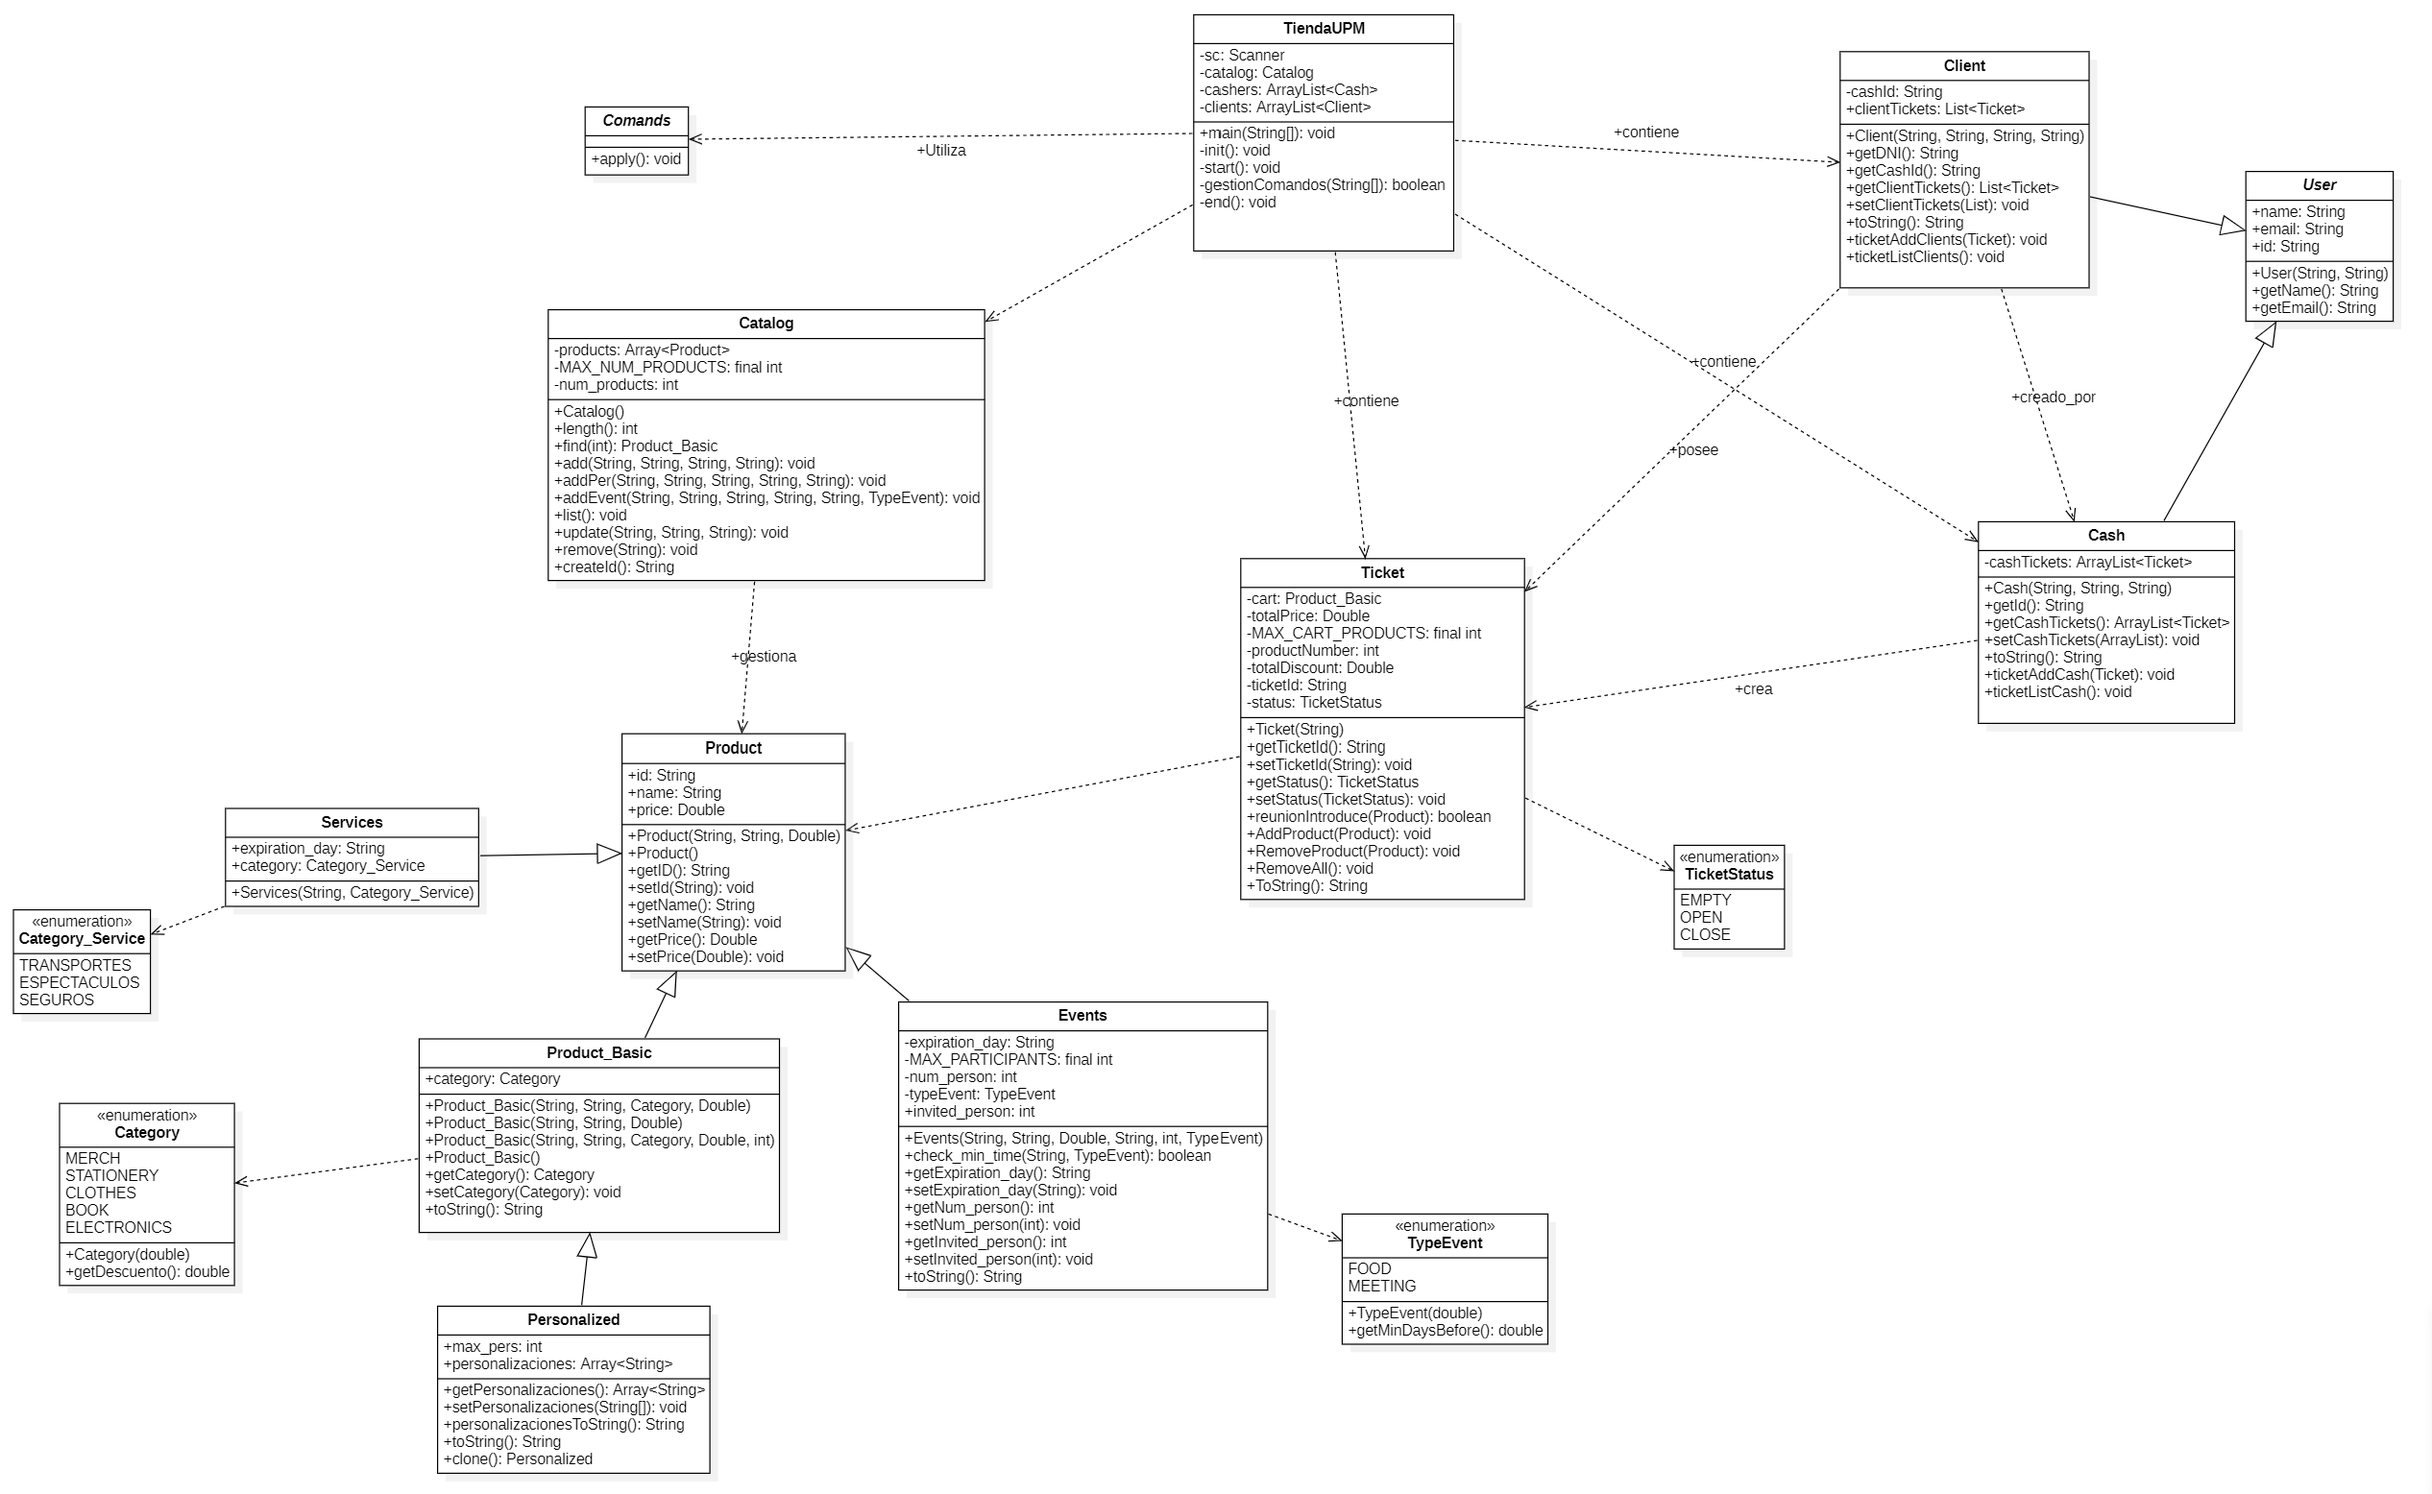
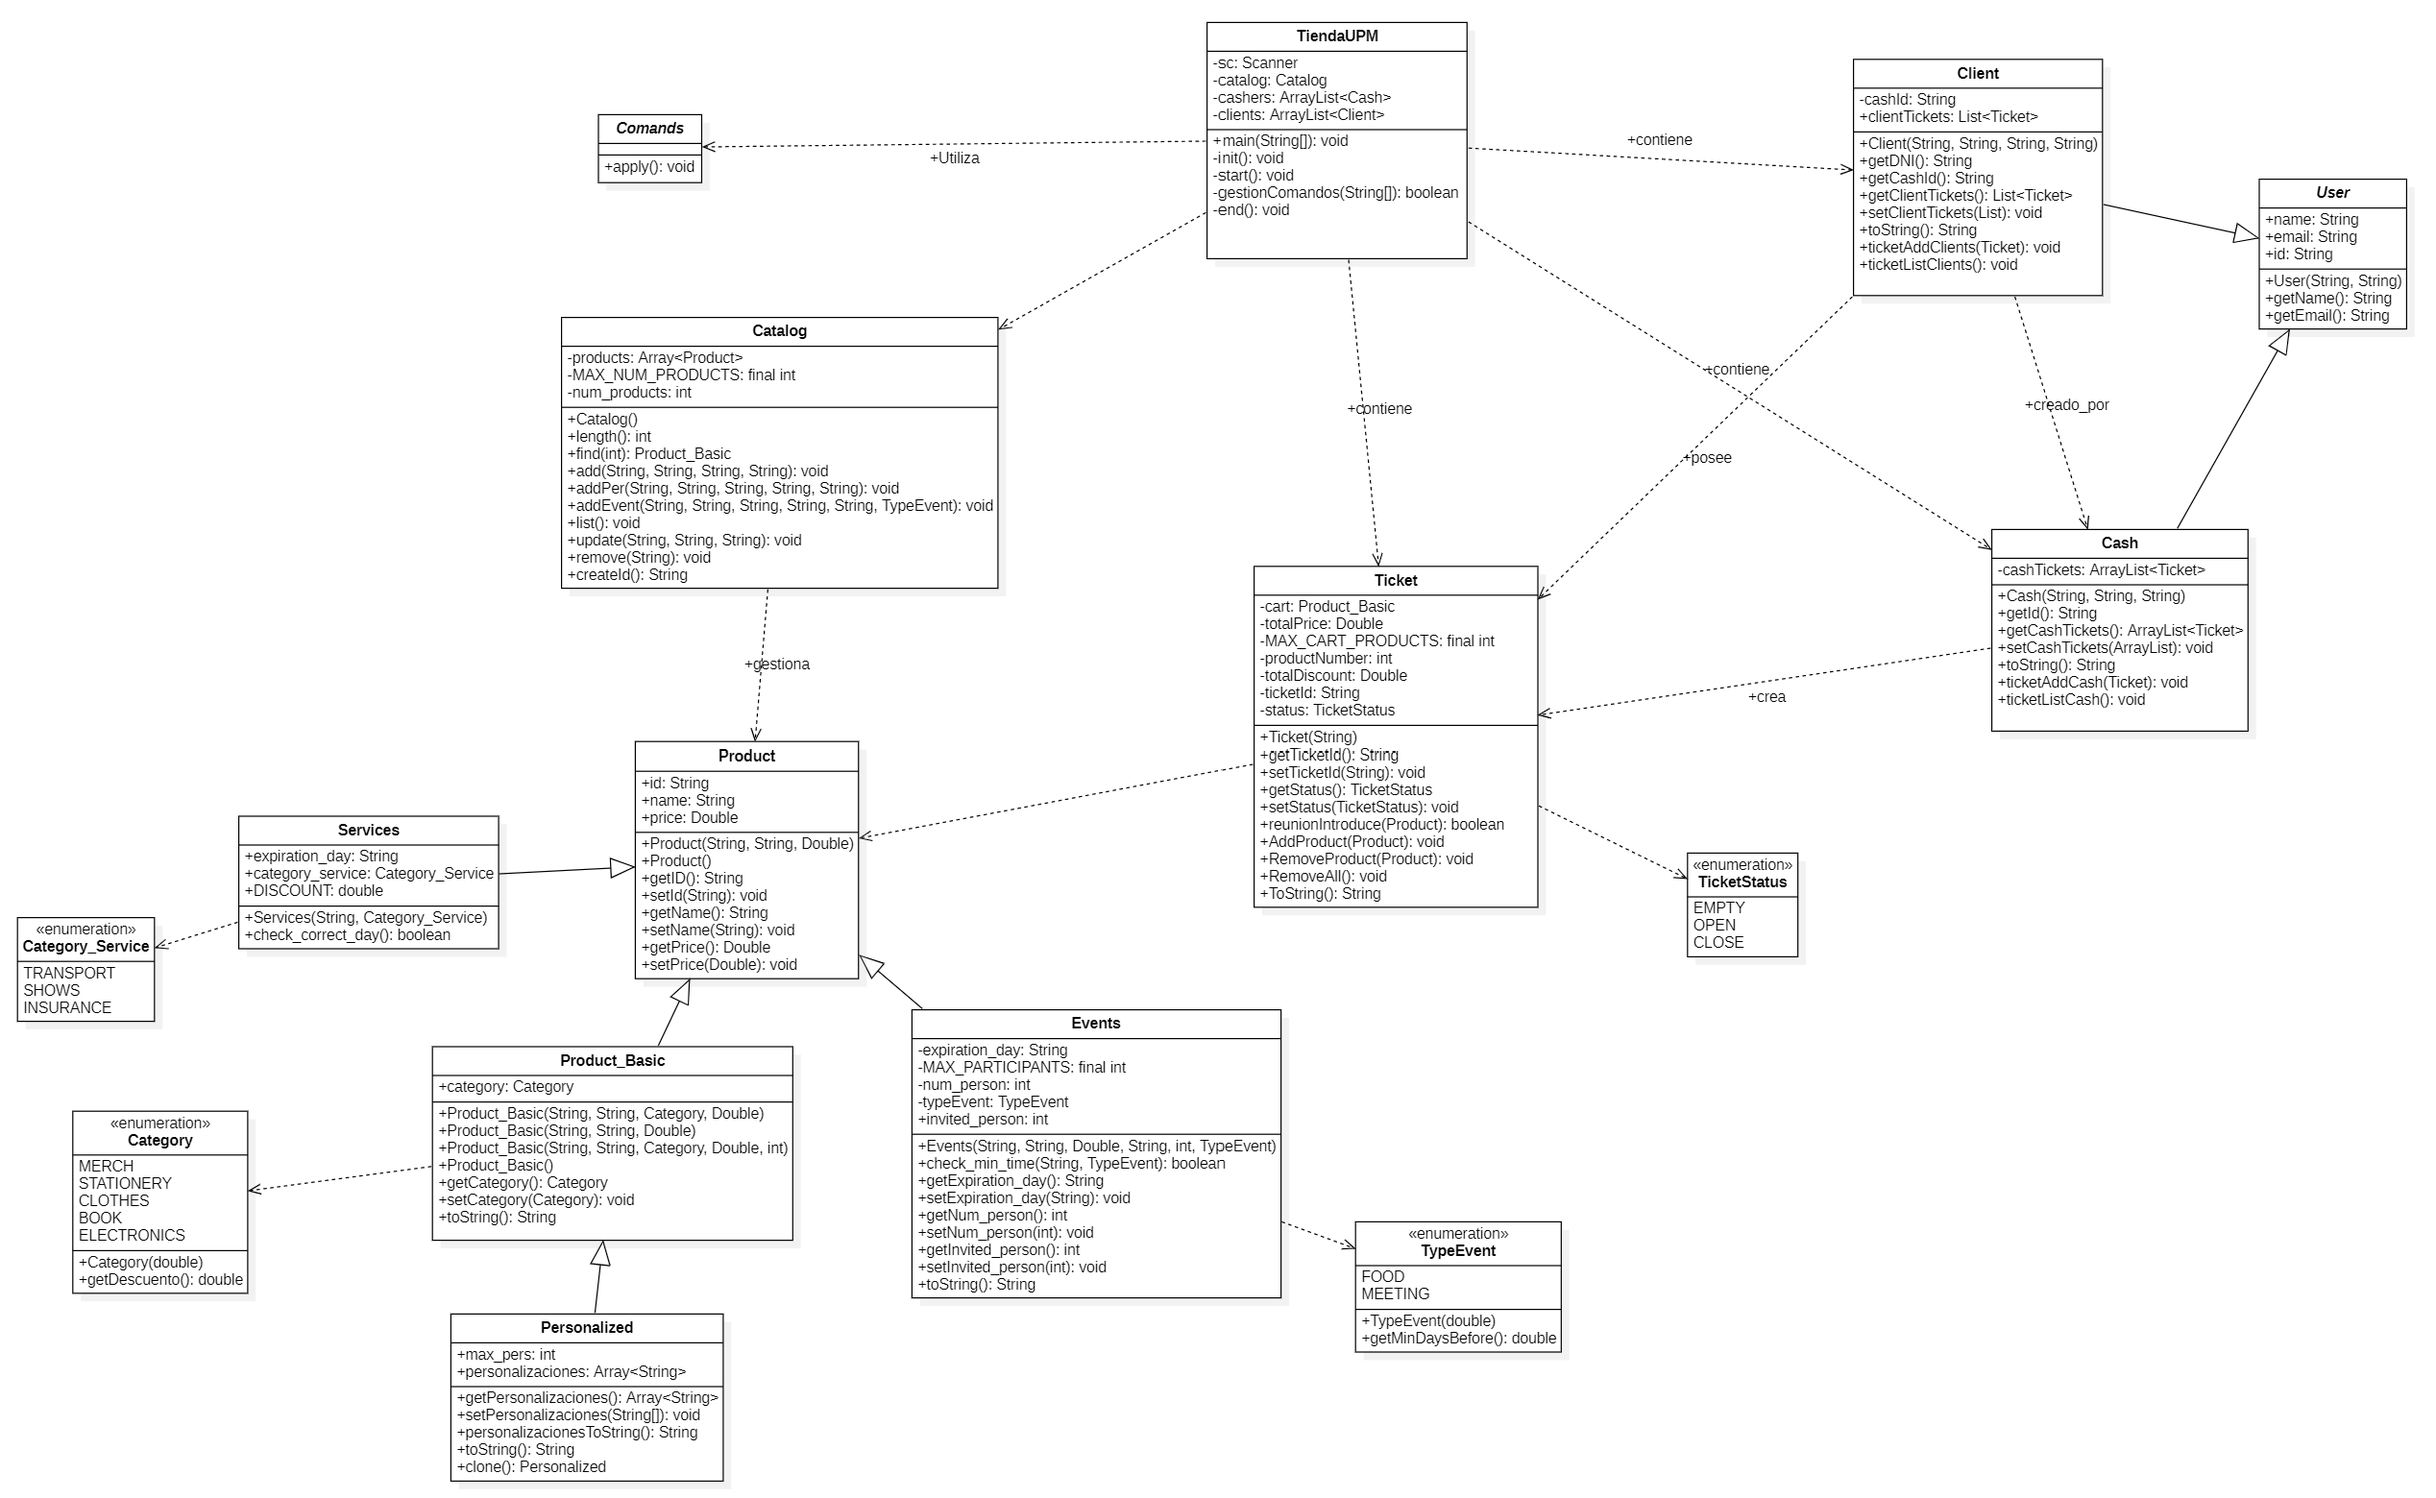
Arreglando cosas

diff --git a/src/main/java/es/upm/etsisi/poo/persistence/ProductDAO.java b/src/main/java/es/upm/etsisi/poo/persistence/ProductDAO.java
@@ -34,7 +34,7 @@ public class ProductDAO {
                 ps.setString(4, "EVENT");
             } else if (p instanceof Services) {
                 ps.setString(4, "SERVICE");
-            } else if (p instanceof Personalizado) {
+            } else if (p instanceof Personalized) {
                 ps.setString(4, "CUSTOM");
             } else {
                 ps.setString(4, "BASIC");
@@ -49,7 +49,7 @@ public class ProductDAO {
 
             /* ===== Services ===== */
             if (p instanceof Services) {
-                ps.setString(6, ((Services) p).getCategory().name());
+                ps.setString(6, ((Services) p).getCategory_service().name());
             } else {
                 ps.setNull(6, Types.VARCHAR);
             }
@@ -68,7 +68,7 @@ public class ProductDAO {
             }
 
             /* ===== Personalizado ===== */
-            if (p instanceof Personalizado per) {
+            if (p instanceof Personalized per) {
                 ps.setInt(11, per.getMax_pers());
                 ps.setString(12, String.join(",", per.getPersonalizaciones()));
             } else {
@@ -113,23 +113,34 @@ public class ProductDAO {
                     }
 
                     case "SERVICE" -> p = new Services(
-                            rs.getString("id"),
-                            rs.getString("name"),
-                            rs.getDouble("price"),
-                            Category_Service.valueOf(
-                                    rs.getString("category_service"))
+                            rs.getString("expiration_day"),
+                            switch (rs.getString("category_service")) {
+                                case "SHOW" -> Category_service.SHOW;
+                                case "INSURANCE" -> Category_service.INSURANCE;
+                                case "TRANSPORT" -> Category_service.TRANSPORT;
+                                default -> null;
+                            },
+                            rs.getString("id")
                     );
 
                     case "CUSTOM" -> {
-                        p = new Personalizado(
+                        p = new Personalized(
                                 rs.getString("id"),
                                 rs.getString("name"),
+                                switch (rs.getString("category")) {
+                                    case "MERCH" -> Category.MERCH;
+                                    case "STATIONERY" -> Category.STATIONERY;
+                                    case "CLOTHES" -> Category.CLOTHES;
+                                    case "BOOK" -> Category.BOOK;
+                                    case "ELECTRONICS" -> Category.ELECTRONICS;
+                                    default -> Notifier.UnexpectecValue(rs.getString("category"));
+                                },
                                 rs.getDouble("price"),
                                 rs.getInt("max_pers")
                         );
                         String pers = rs.getString("personalizations");
                         if (pers != null)
-                            ((Personalizado) p)
+                            ((Personalized) p)
                                     .setPersonalizaciones(pers.split(","));
                     }
 

diff --git a/src/main/java/es/upm/etsisi/poo/Personalized.java b/src/main/java/es/upm/etsisi/poo/Personalized.java
@@ -38,6 +38,11 @@ public class Personalized extends Product_Basic{
             Notifier.CantPersonalize();
         }
     }
+
+    public int getMax_pers() {
+        return max_pers;
+    }
+
     public String personalizacionesToString() {
         StringBuilder sb = new StringBuilder();
         for (int i = 0; i < personalizaciones.length; i++) {

diff --git a/src/main/java/es/upm/etsisi/poo/Events.java b/src/main/java/es/upm/etsisi/poo/Events.java
@@ -67,6 +67,14 @@ public class Events extends Product {
         this.invited_person = invited_person;
     }
 
+    public int getMAX_PARTICIPANTS() {
+        return MAX_PARTICIPANTS;
+    }
+
+    public TypeEvent getTypeEvent() {
+        return typeEvent;
+    }
+
     @Override
     public String toString() {
         if(invited_person!=0) {
